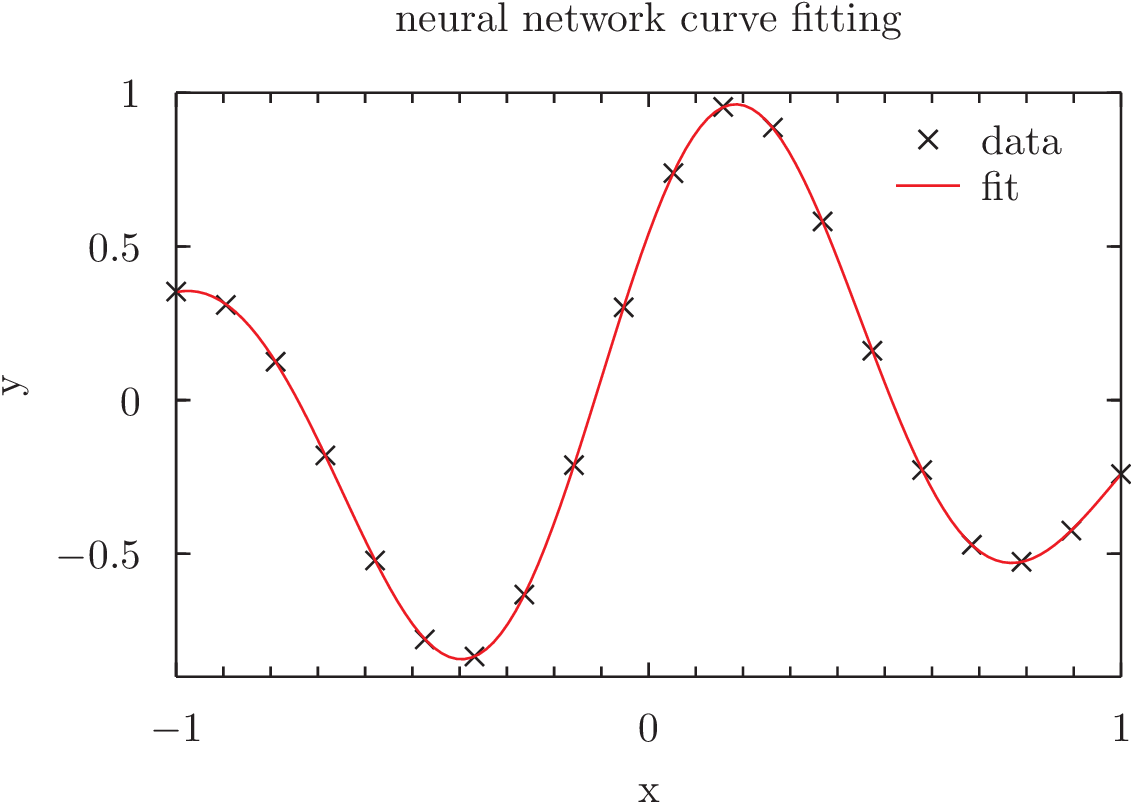
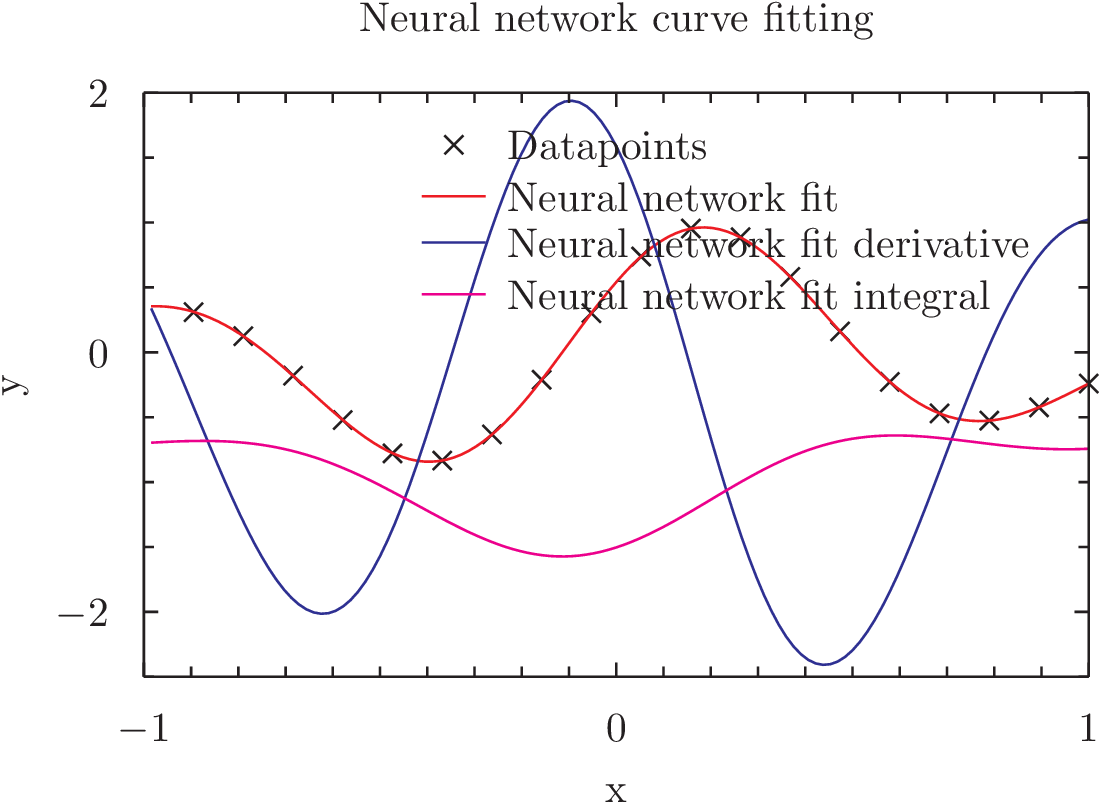
Add excisting files

diff --git a/homework/neural-network/ann.c b/homework/neural-network/ann.c
@@ -3,10 +3,12 @@
 #include<math.h>
 #include"ann.h"
 
-ann* ann_alloc(int n,double(*f)(double)){
+ann* ann_alloc(int n,double(*f)(double),double(*d)(double),double(*i)(double)){
 	ann* network = malloc(sizeof(ann));
 	network->n=n;
 	network->f=f;
+	network->d=d;
+	network->i=i;
 	network->params=gsl_vector_alloc(3*n);
 	return network;
 }
@@ -22,6 +24,28 @@ double ann_response(ann* network,double x){
 		double b=gsl_vector_get(network->params,3*i+1);
 		double w=gsl_vector_get(network->params,3*i+2);
 		s+=network->f((x-a)/b)*w;
+	}
+	return s;
+}
+
+double ann_derivative(ann* network,double x){
+	double s=0;
+	for(int i=0;i<network->n;i++){
+		double a=gsl_vector_get(network->params,3*i+0);
+		double b=gsl_vector_get(network->params,3*i+1);
+		double w=gsl_vector_get(network->params,3*i+2);
+		s+=network->d((x-a)/b)*w;
+	}
+	return s;
+}
+
+double ann_integral(ann* network,double x){
+	double s=0;
+	for(int i=0;i<network->n;i++){
+		double a=gsl_vector_get(network->params,3*i+0);
+		double b=gsl_vector_get(network->params,3*i+1);
+		double w=gsl_vector_get(network->params,3*i+2);
+		s+=network->i((x-a)/b)*w;
 	}
 	return s;
 }

diff --git a/homework/neural-network/main.c b/homework/neural-network/main.c
@@ -4,6 +4,8 @@
 #include"ann.h"
 double activation_function(double x){return x*exp(-x*x);}
 double function_to_fit(double x){return cos(5*x-1)*exp(-x*x);}
+double derivative(double x){return exp(-x*x)-2*x*x*exp(-x*x);}
+double integral(double x){return -0.5*exp(-x*x);}
 
 gsl_vector* vx;
 gsl_vector* vy;
@@ -22,12 +24,13 @@ double cost_function(gsl_vector* p){
 
 int main(){
 	int n=5;
-	network=ann_alloc(n,activation_function);
+	network=ann_alloc(n,activation_function,derivative,integral);
 	double a=-1,b=1;
 	int nx=20;
 	vx=gsl_vector_alloc(nx);
 	vy=gsl_vector_alloc(nx);
 
+	printf("# Function the neural-network should fit to:");
 	for(int i=0;i<nx;i++){
 		double x=a+(b-a)*i/(nx-1);
 		double f=function_to_fit(x);
@@ -50,10 +53,10 @@ int main(){
 //	}
 //	printf("\n\n");
 
+	printf("# The response of the neural-network:");
 	double dz=1.0/64;
 	for(double z=a;z<=b;z+=dz){
-		double y=ann_response(network,z);
-		printf("%g %g \n",z,y);
+		printf("%g %g %g %g\n",z,ann_response(network,z),ann_derivative(network,z),ann_integral(network,z));
 	}
 
 gsl_vector_free(vx);

diff --git a/homework/neural-network/ann.h b/homework/neural-network/ann.h
@@ -4,10 +4,14 @@
 typedef struct {
 	int n;
 	double(*f)(double);
+	double(*d)(double);
+	double(*i)(double);
 	gsl_vector* params;
 	} ann;
-ann* ann_alloc(int n,double(*f)(double));
+ann* ann_alloc(int n,double(*f)(double),double(*d)(double),double(*i)(double));
 void ann_free(ann* network);
 double ann_response(ann* network,double x);
+double ann_derivative(ann* network,double x);
+double ann_integral(ann* network,double x);
 void ann_train(double cost_function(gsl_vector* p),ann* network,gsl_vector* xlist,gsl_vector* ylist);
 #endif
